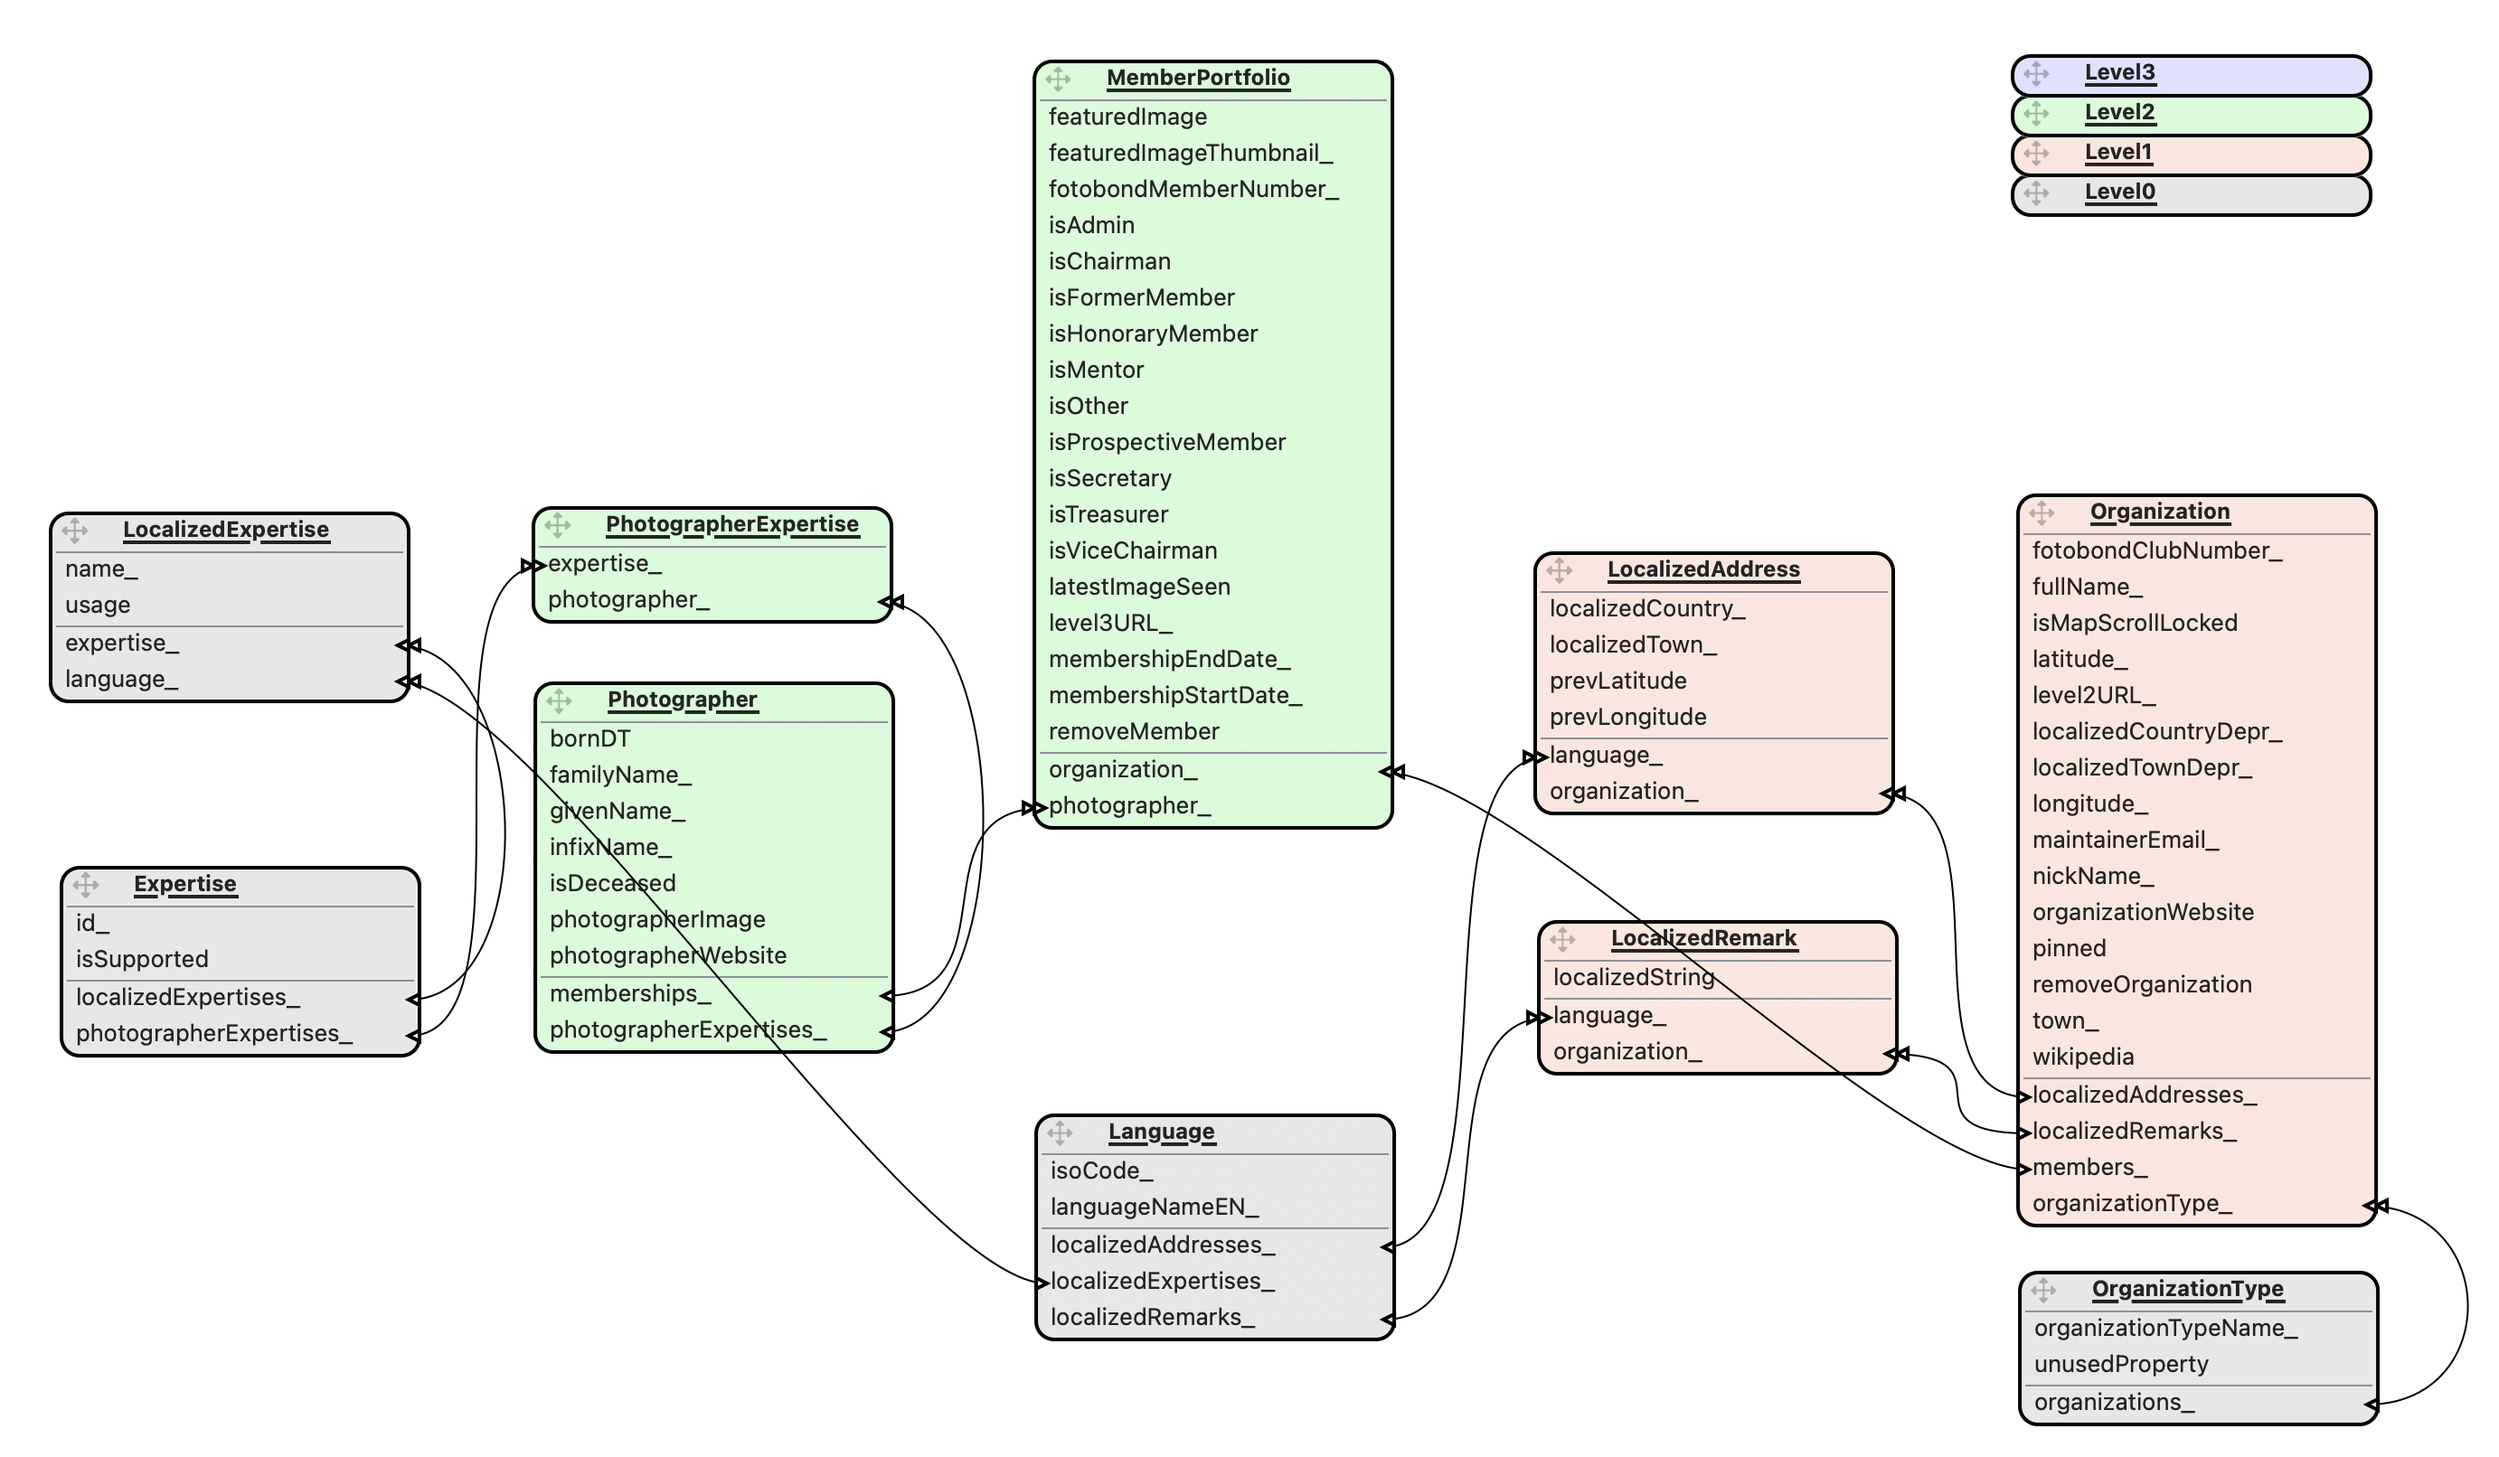
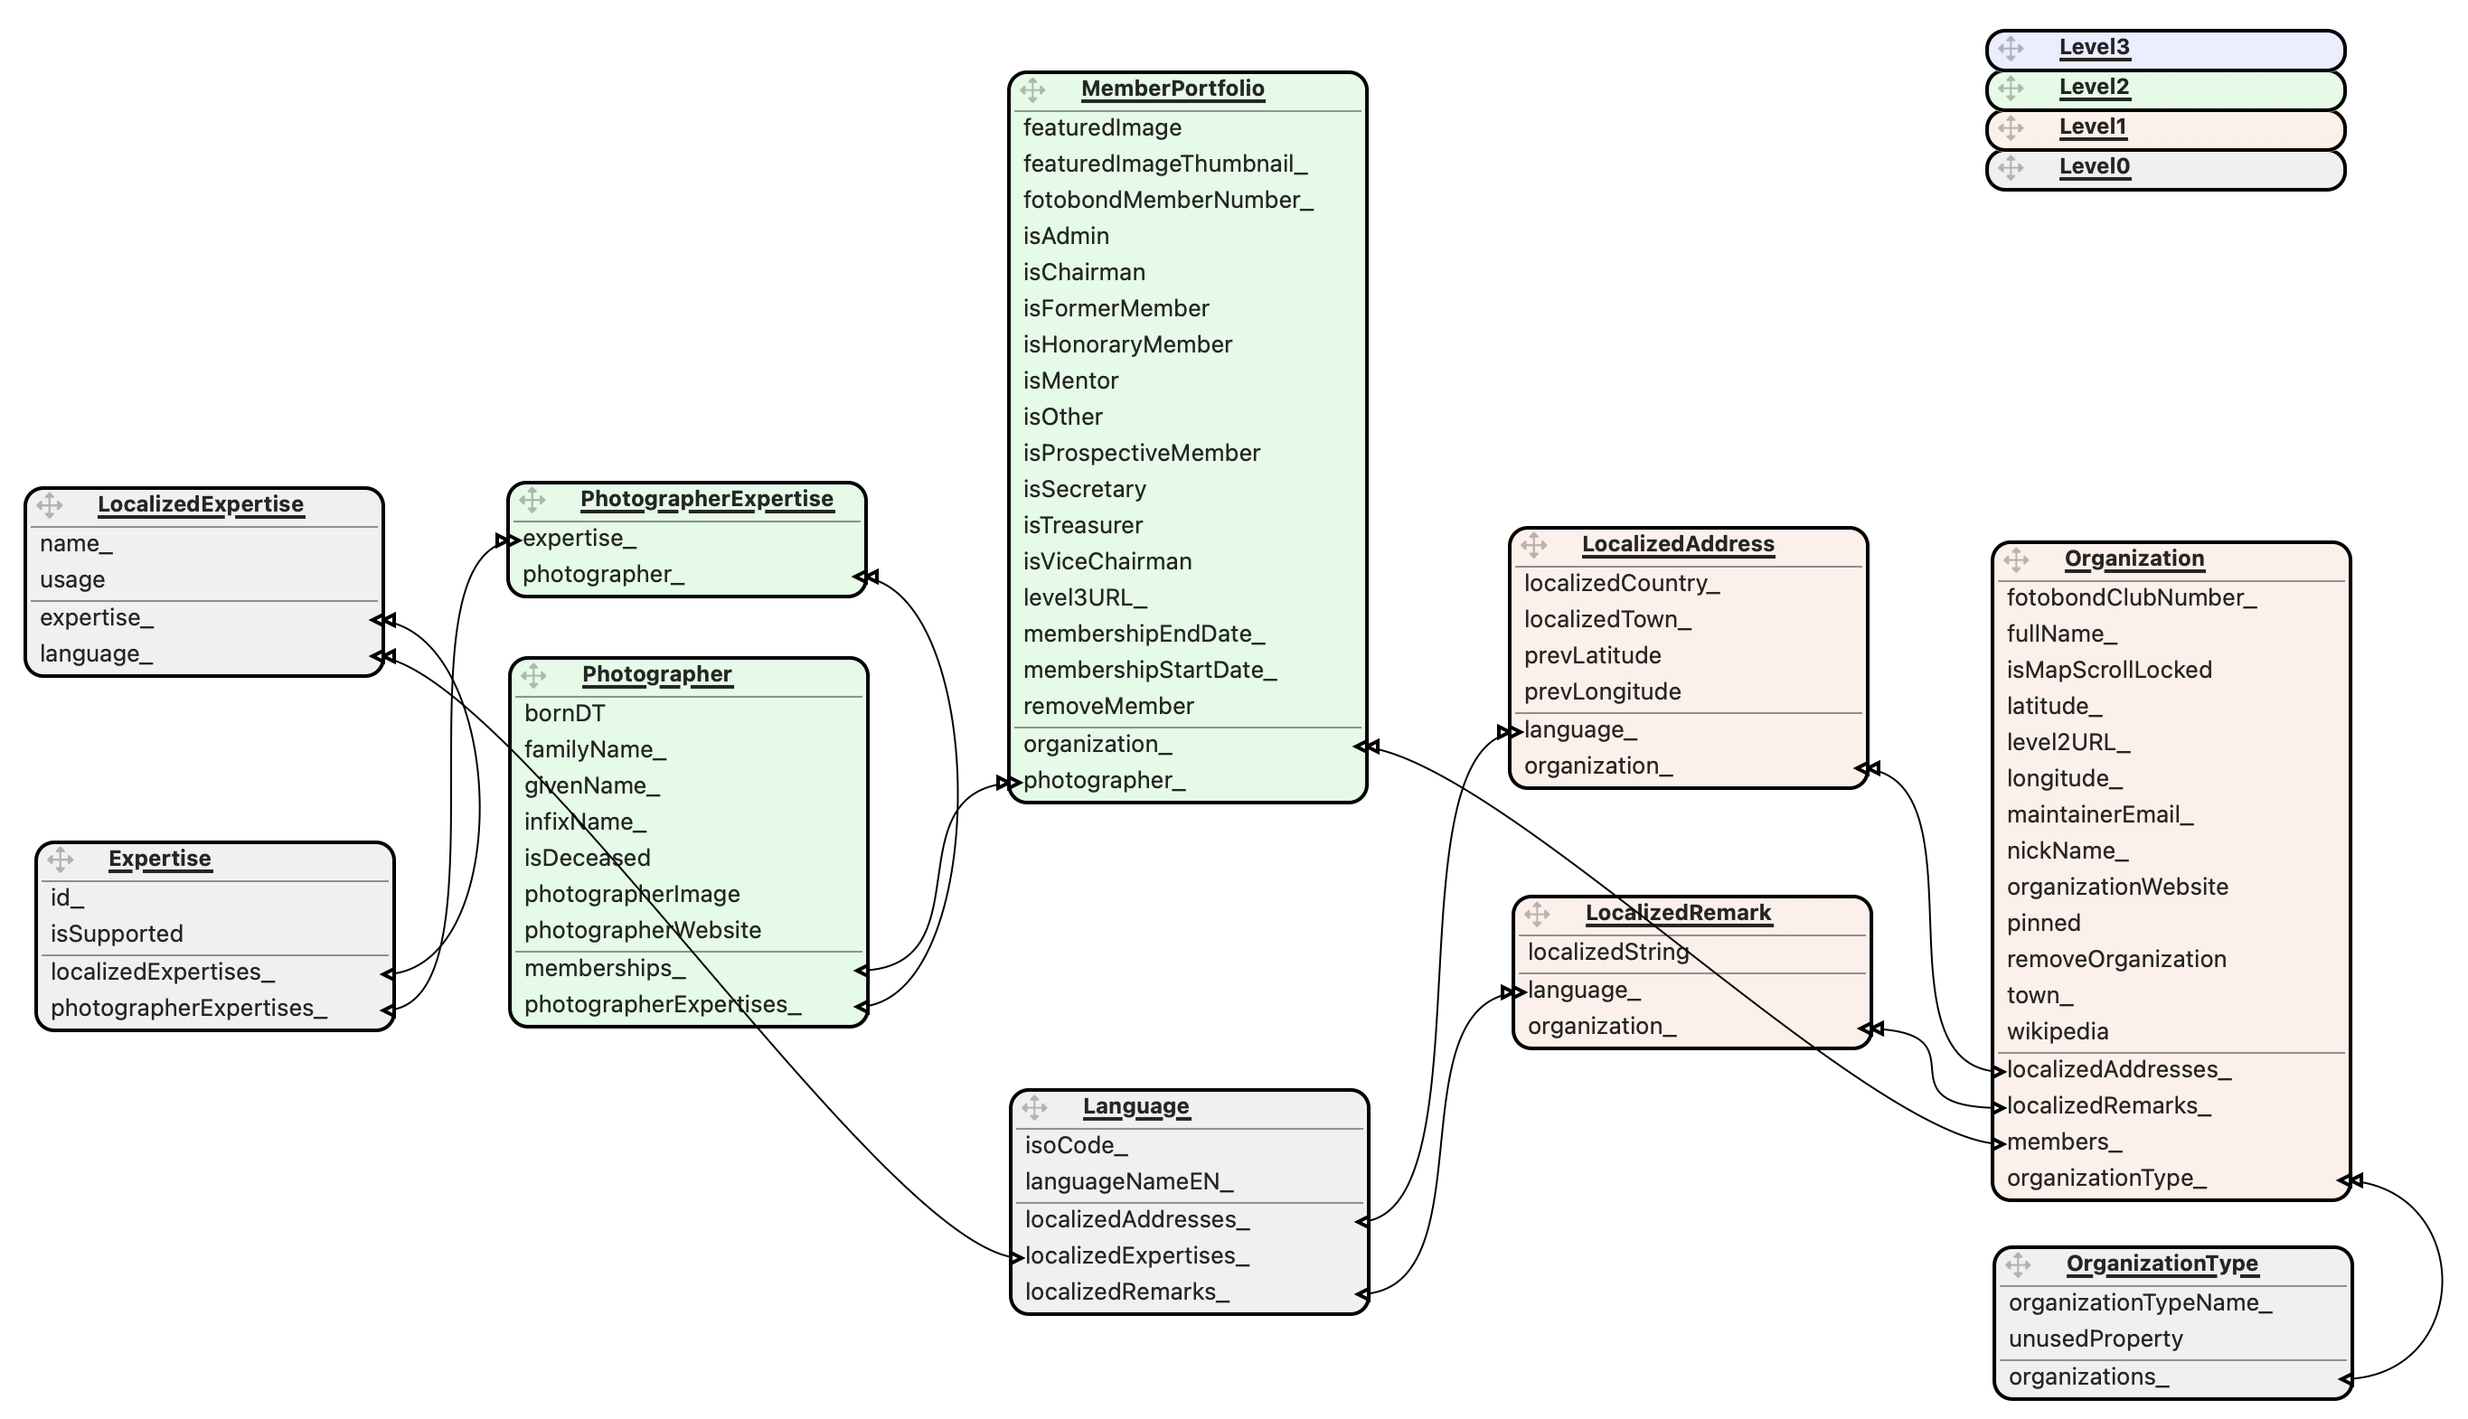
Cleanup of LocalizedTownDepr_ and LocalizedCountryDepr_ Closes #40

diff --git a/Sources/Photo Club Hub Data/ViewModel/Organization/Organization+ComputedProperties.swift b/Sources/Photo Club Hub Data/ViewModel/Organization/Organization+ComputedProperties.swift
@@ -118,30 +118,6 @@ extension Organization {
 		set { town_ = newValue }
 	}
 
-    public var localizedTown: String {
-        /*
-            LocalizedCountry is retrieved from the CoreData database, where it is not optional.
-            It is calculated using the mandatory GPS coordinates using reverseGeolocation.
-            During this reverseGeolocation, the string is automatically adapted to the current locale.
-            Example: Paris returns localizedTown="Paris" if the device is set to Dutch.
-            The value of Town is not localized and is the original value provided by the user.
-            Localization may return a slightly different town: Tokyo → suburb of Tokyo (because "Tokyo" is not used).
-        */
-        get { return localizedTownDepr_ ?? "ErrorTown" }
-        set { localizedTownDepr_ = newValue}
-    }
-
-    public var localizedCountry: String {
-        /*
-         LocalizedCountry is retrieved from the CoreData database, where it is not optional.
-         It is calculated using the mandatory GPS coordinates using reverseGeolocation.
-         During this reverseGeolocation, the string is automatically adapted to the current locale.
-         Example: Paris returns localizedCountry="Frankrijk" if the device is set to Dutch.
-         */
-        get { return localizedCountryDepr_ ?? "ErrorCountry" }
-        set { localizedCountryDepr_ = newValue}
-    }
-
     public var level2URL: URL? {
         get {
             // use a default unless level2URL points to the club's own website

diff --git a/Sources/Photo Club Hub Data/ViewModel/CoreDataGenerated/Organization+CoreDataProperties.swift b/Sources/Photo Club Hub Data/ViewModel/CoreDataGenerated/Organization+CoreDataProperties.swift
@@ -23,8 +23,6 @@ extension Organization {
     @NSManaged nonisolated public var isMapScrollLocked: Bool
     @NSManaged nonisolated public var latitude_: Double
     @NSManaged nonisolated public var level2URL_: URL?
-    @NSManaged nonisolated public var localizedCountryDepr_: String?
-    @NSManaged nonisolated public var localizedTownDepr_: String?
     @NSManaged nonisolated public var longitude_: Double
     @NSManaged nonisolated public var maintainerEmail_: String?
     @NSManaged nonisolated public var nickName_: String?

diff --git a/ReleaseNotes.md b/ReleaseNotes.md
@@ -7,6 +7,18 @@ TO-DO
 
 ---------------------------------------------------------------------------
 
+### 3.3.0 (GitHub commit ???????) ??-09-2026
+
+API
+
+* __`Organization.localizedTown` and `Organization.localizedCountry` are gone.__ Each was a single untagged string per organization: one slot, so "the Dutch name" and "the English name" could not both exist, and nothing recorded which was stored. `LocalizedAddress` has modelled this properly for some time — one row per (organization × language) — and both apps moved onto it in Photo-Club-Hub#827. What made removal worth doing rather than merely tidy is that they had become misleading: since nothing writes the underlying column any more, the getter returned its Core Data default, `"Town?"`, for every organization, permanently, while sitting beside the correct `localizedTown(for:)` and being shorter to type. That is the trap shape that cost Photo-Club-Hub#825. Removing public API is strictly MAJOR, but neither app referenced these, so it is treated as MINOR on the same reasoning as Data#19, Data#26 and Data#28 (Data#40).
+
+STRUCTURAL
+
+* __New Core Data model version `Photo_Club_Hub_3_3_0`,__ with `localizedTownDepr_` and `localizedCountryDepr_` removed from `Organization`. Dropping attributes is compatible with lightweight migration, so no mapping model is needed; a store in the field migrates on first launch after a consumer's version pin moves, and no data is lost because nothing has read those columns since 3.1.0. `Photo_Club_Hub_3_2_0` is untouched, being shipped. The matching entries in `Organization+CoreDataProperties.swift` were removed by hand, as the model's Manual/None codegen requires. `LocalizedAddress.localizedTown_` and `localizedCountry_` are unaffected — they differ from the removed names only by the `Depr_` suffix, and they are the working mechanism.
+
+---------------------------------------------------------------------------
+
 ### 3.2.0 (GitHub commit 854c1ef) 01-09-2026
 
 STRUCTURAL
